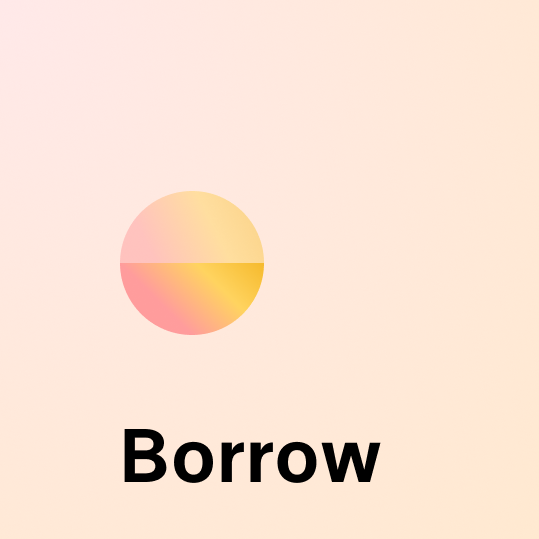
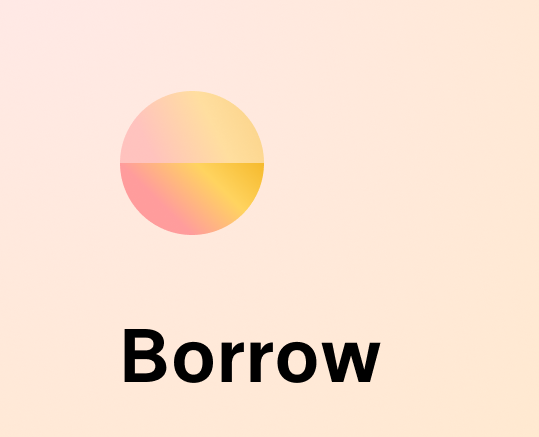
Update Twitter meta-tag image.

Changed region(s): [[0.2078, 0.2082, 0.5046, 0.6247], [0.2078, 0.7437, 0.7124, 0.9222]]

diff --git a/public/index.html b/public/index.html
@@ -27,11 +27,12 @@
     <title>Oasis Borrow</title>
     <meta name="title" content="Oasis Borrow" />
     <meta name="description" content="Put your assets to work. Maker Vaults on Oasis Borrow make it easy to utilize your collateral by generating Dai against it. Realize liquidity through a Vault and ensure you don't lose long exposure to your collateral." />
-    <meta name="twitter:card" content="summary" />
+    <meta property="twitter:card" content="summary" />
+    <meta property="twitter:image" content="https://staging.oasis.app%PUBLIC_URL%/meta/Oasis_Borrow-cropped.png" />
     <meta property="og:title" content="Oasis Borrow" />
     <meta property="og:type" content="website" />
     <meta property="og:url" content="http://oasis.app%PUBLIC_URL%" />
-    <meta property="og:image" content="https://staging.oasis.app%PUBLIC_URL%/meta/Oasis_Borrow-cropped.png" />
+    <meta property="og:image" content="https://oasis.app%PUBLIC_URL%/meta/Oasis_Borrow.png" />
     <meta property="og:description" content="Put your assets to work. Maker Vaults on Oasis Borrow make it easy to utilize your collateral by generating Dai against it. Realize liquidity through a Vault and ensure you don't lose long exposure to your collateral." />
   </head>
   <body>
